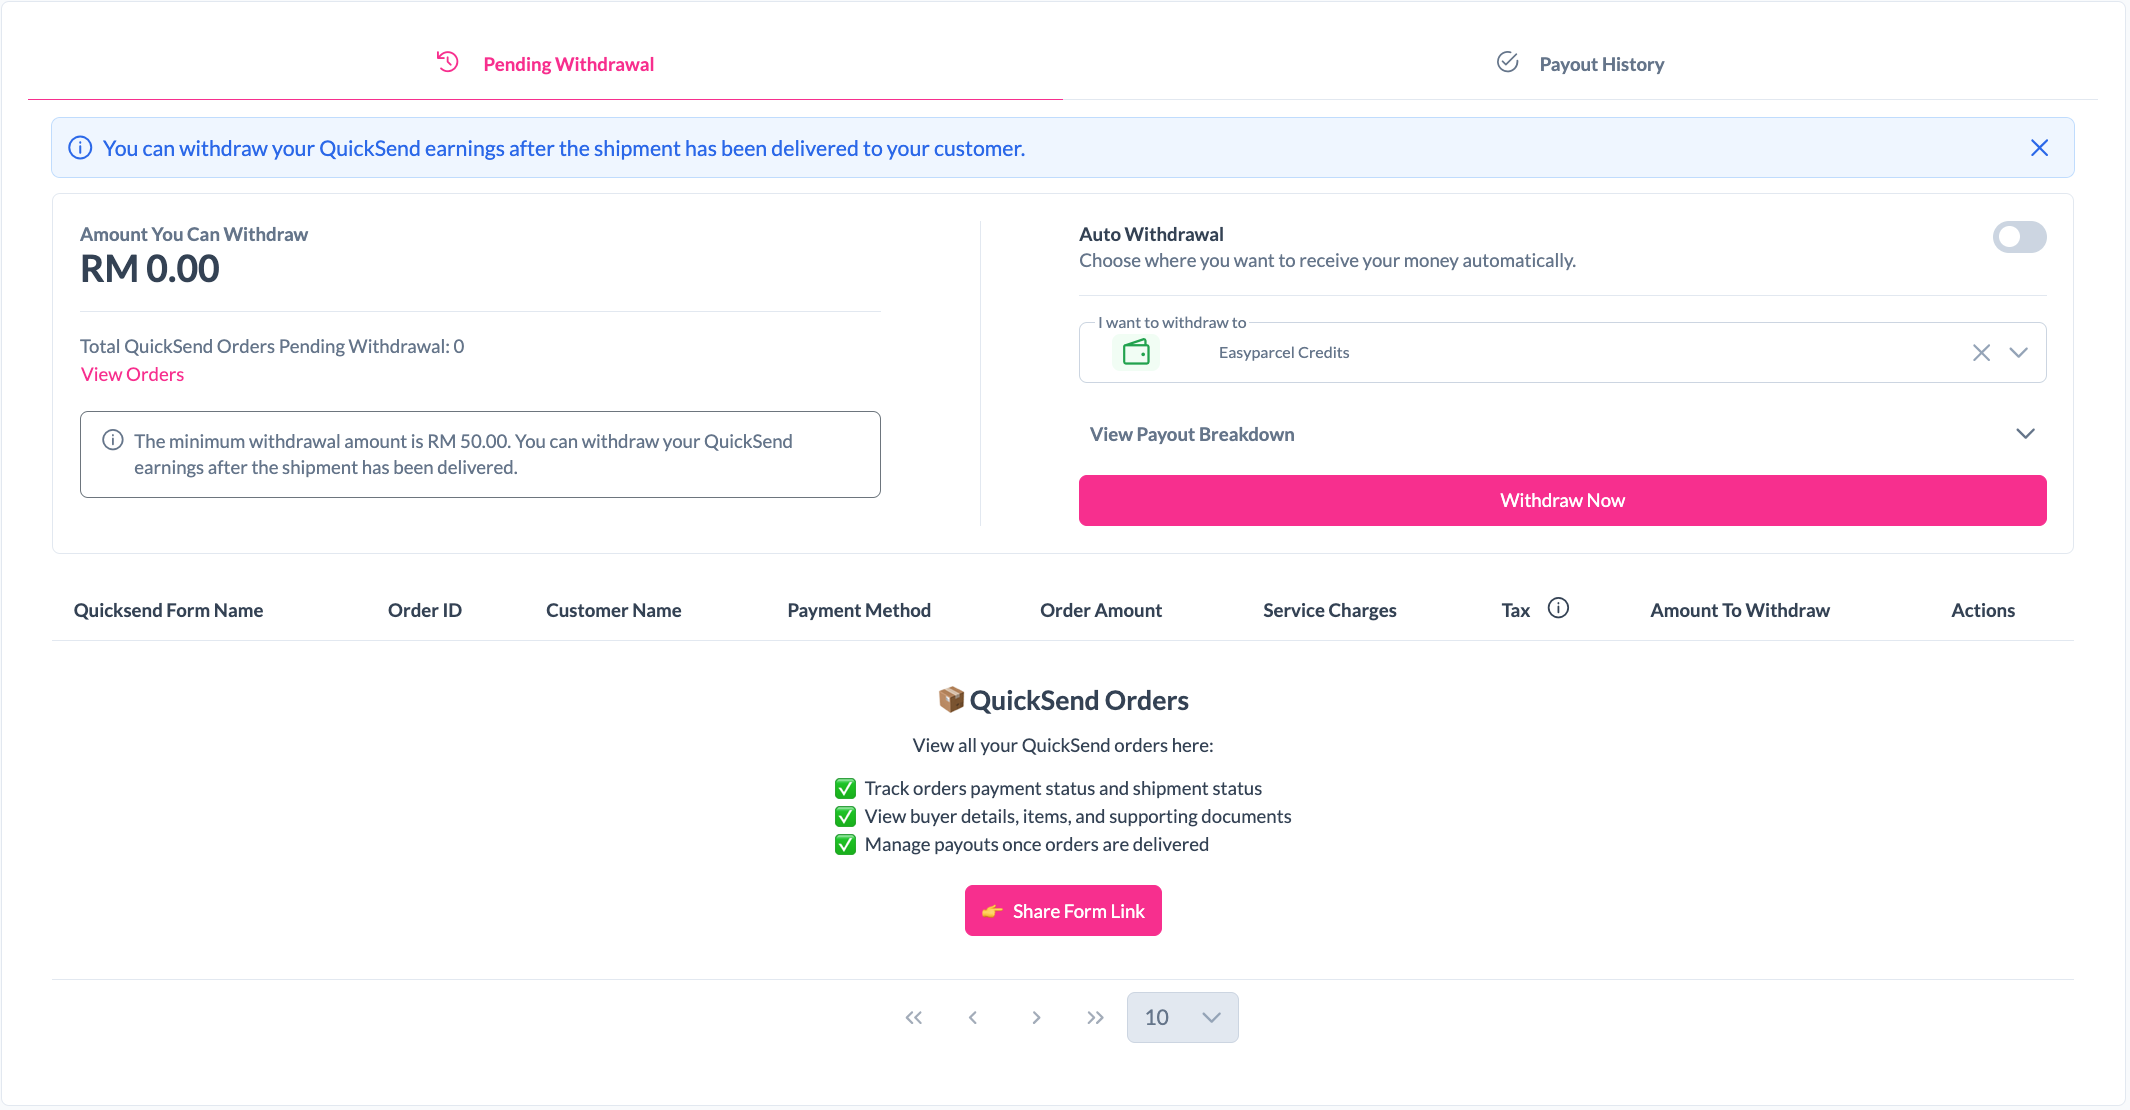
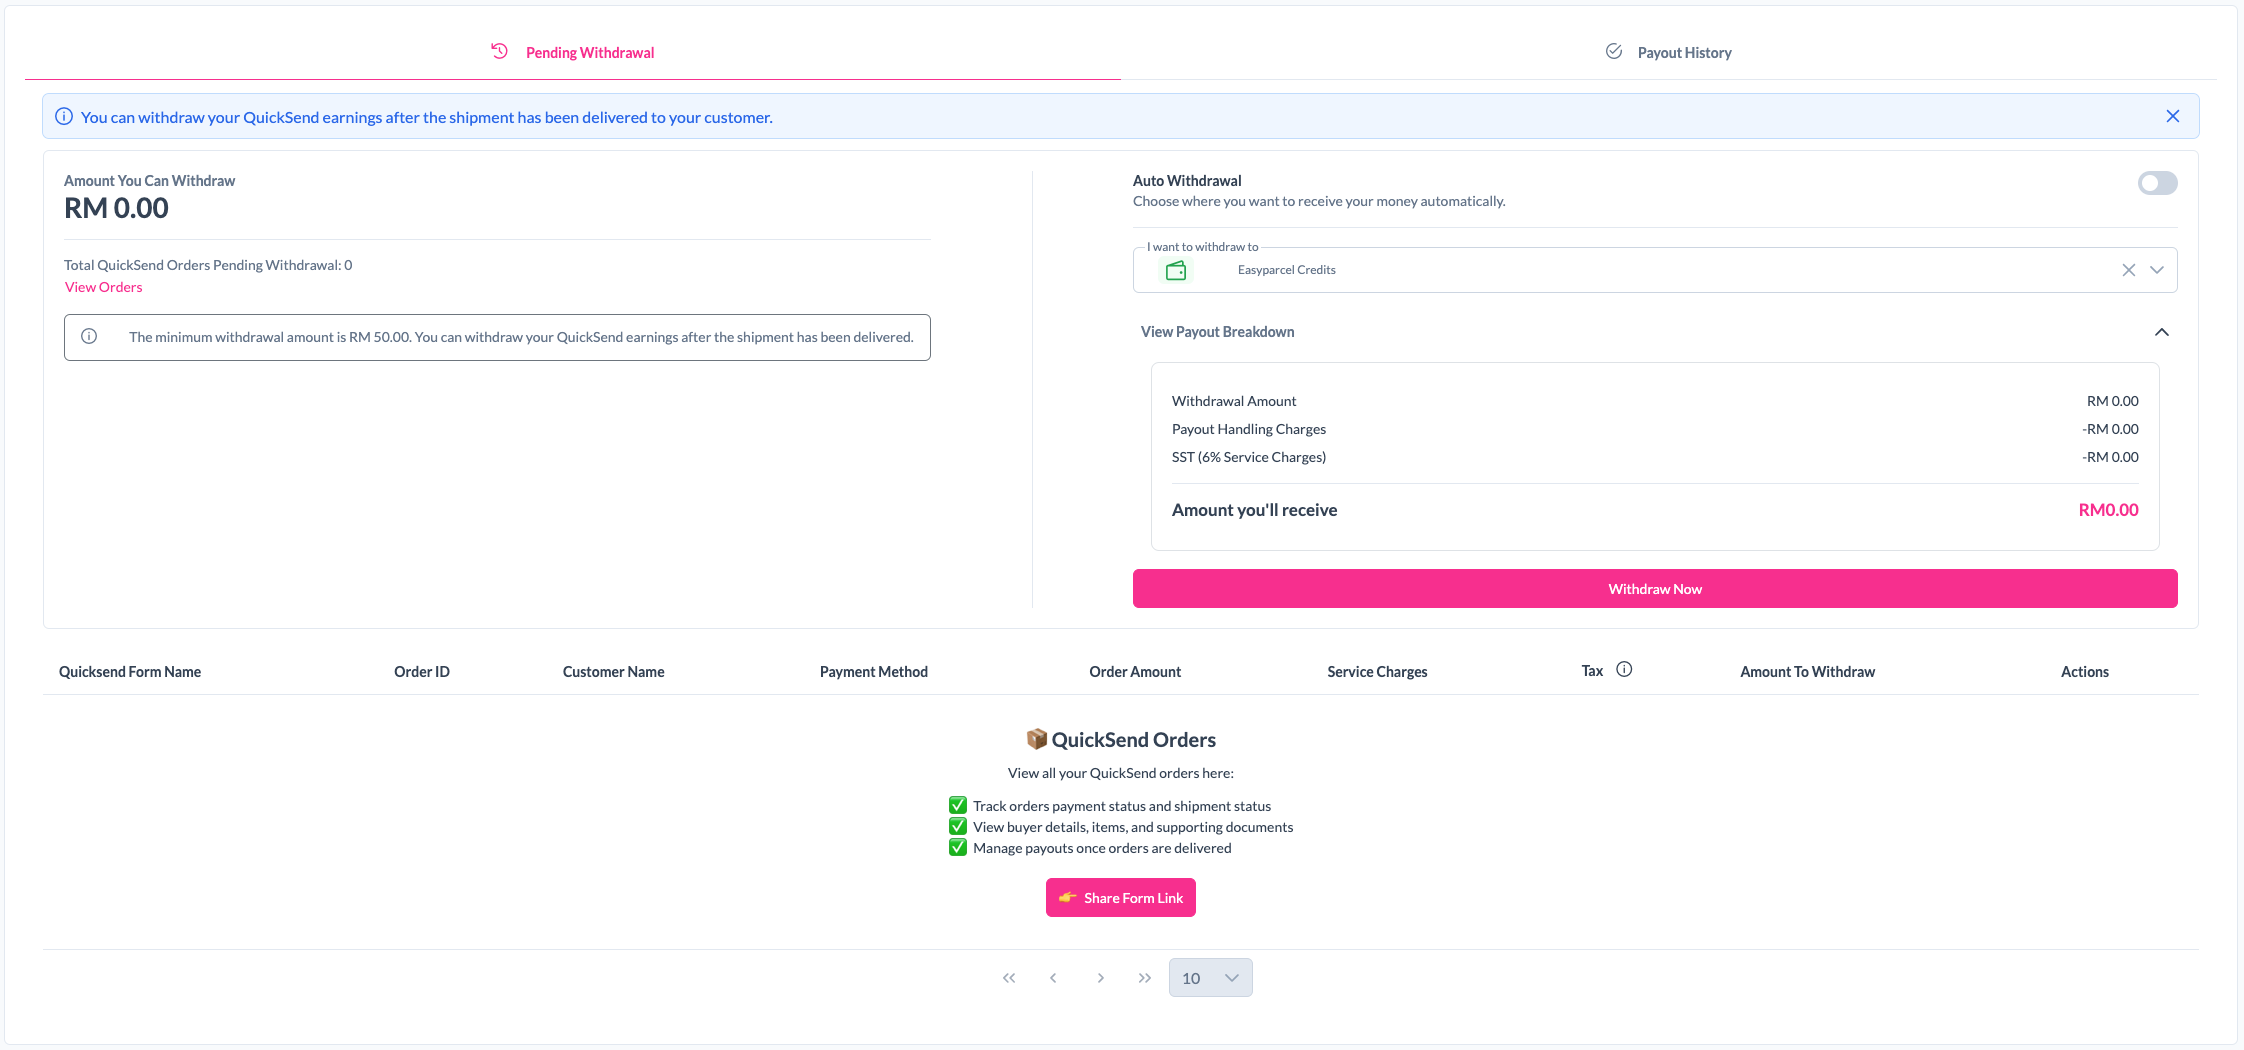
Update Quicksend

diff --git a/Quicksend/Quicksend.md b/Quicksend/Quicksend.md
@@ -62,6 +62,6 @@ To access EasyParcel Quicksend:
 2. Navigate to Quicksend from the dashboard.
 3. Quicksend contains three main sections:
 
-- [QuickSend Form](Form.md)
-- [QuickSend Orders](Orders.md)
-- [QuickSend Payout](Payout.md)
+- [Form](Form.md)
+- [Orders](Orders.md)
+- [Payout](Payout.md)

diff --git a/Quicksend/Payout.md b/Quicksend/Payout.md
@@ -4,8 +4,8 @@ The Payout module allows you to track your QuickSend earnings and withdraw funds
 
 Payout consists of two sections:
 
-- Pending Withdrawal
-- Payout History
+- 💸 [Pending Withdrawal](#pending-withdrawal)
+- 📄 [Payout History](#payout-history)
 
 ---
 
@@ -36,6 +36,7 @@ Choose where you would like to receive your payouts.
 Example:
 
 - EasyParcel Credits
+- Bank Account
 
 #### Payout Breakdown
 